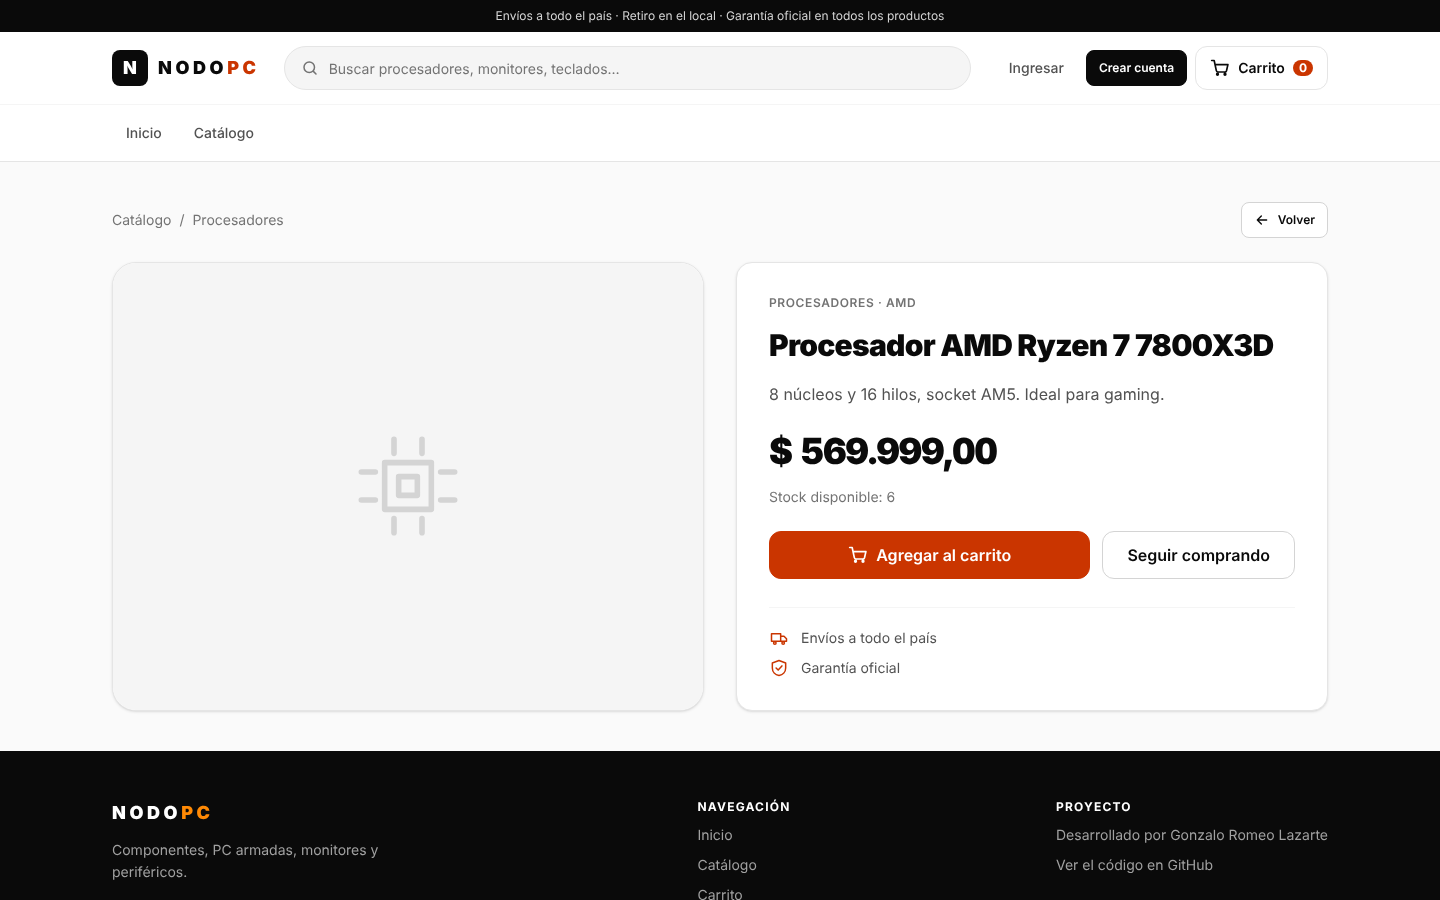
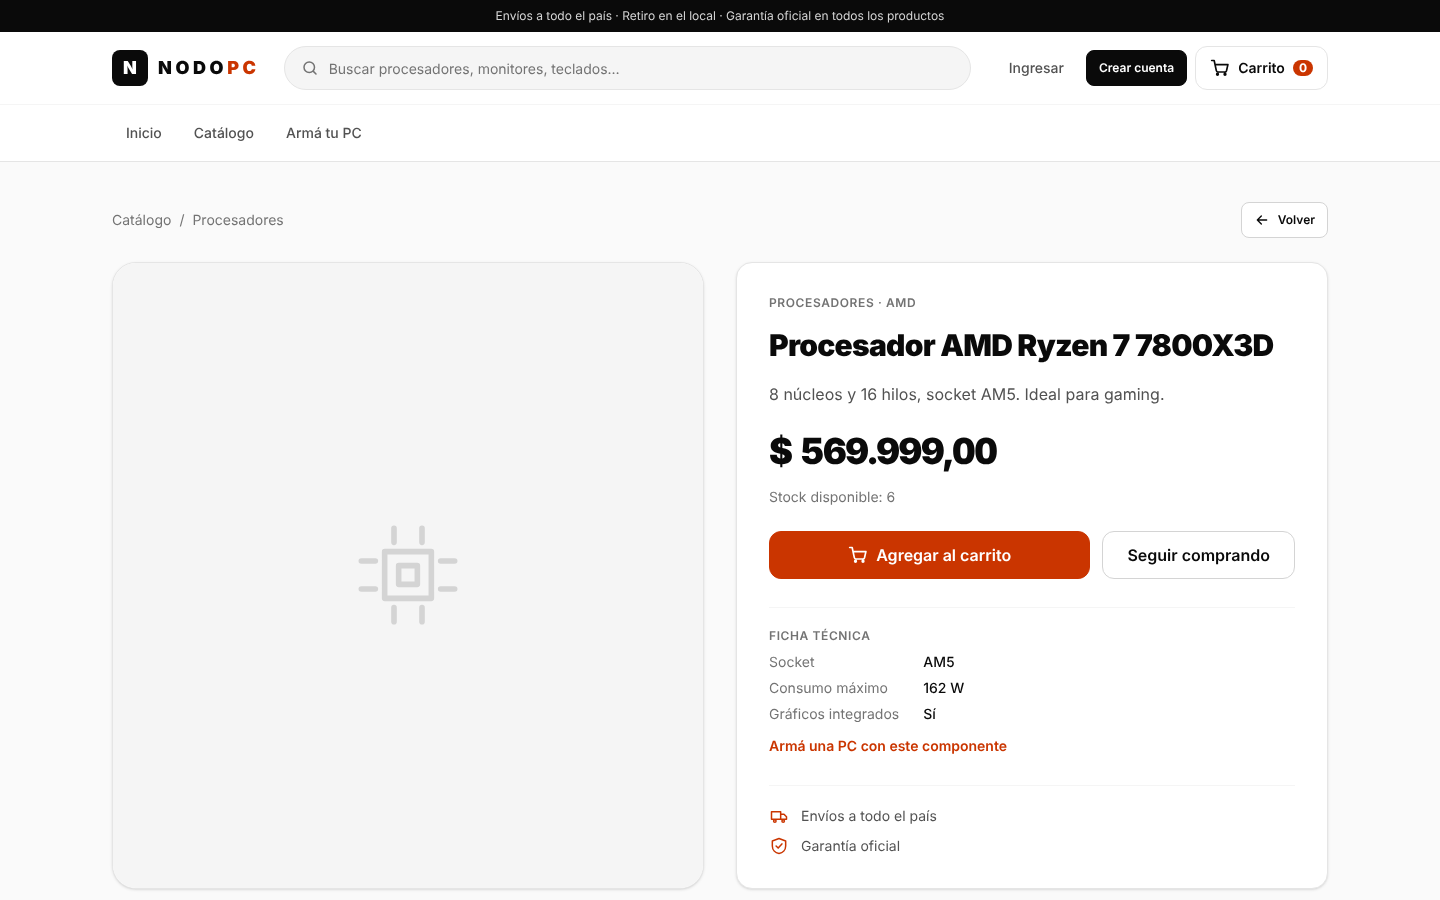
Actualizar las capturas y sumar una demo animada
Las capturas muestran la versión actual: el armador de PC con un aviso
por la fuente, el detalle de un componente con su ficha técnica, el
checkout con envío por provincia y medio de pago, y un pedido pagado
con su seguimiento. El README suma una demo de un minuto que recorre
el armado de una PC compatible, la compra, el pago de prueba y la
gestión del pedido desde el panel.

La presentación del README cuenta las funciones nuevas en una frase.

Changed region(s): [[0.0, 0.6844, 1.0, 1.0], [0.25, 0.4978, 0.3125, 0.6844], [0.1875, 0.1244, 0.25, 0.1556]]

diff --git a/README.md b/README.md
@@ -12,19 +12,25 @@ Tienda online de hardware full stack, hecha con **React, Express y MySQL**.
 ![MySQL](https://img.shields.io/badge/MySQL-4479A1?logo=mysql&logoColor=white)
 ![Licencia MIT](https://img.shields.io/badge/licencia-MIT-c2410c)
 
-NodoPC vende componentes de PC, PC armadas, monitores y periféricos. Los visitantes recorren el catálogo y arman un carrito, los clientes compran y siguen sus pedidos, y el administrador gestiona la tienda desde un panel con métricas de ventas.
+NodoPC vende componentes de PC, PC armadas, monitores y periféricos. Los visitantes recorren el catálogo o arman una PC pieza por pieza con chequeo de compatibilidad; los clientes compran con envío a domicilio o retiro, pagan con Mercado Pago (modo prueba) o con una tarjeta simulada y siguen cada pedido; y el administrador gestiona la tienda desde un panel con métricas de ventas.
 
 > Proyecto de demostración: no se venden productos reales.
 
+## Demo
+
+![Recorrido por la tienda: armado de una PC compatible, compra con envío, pago de prueba y gestión del pedido desde el panel](docs/demo.gif)
+
 ## Capturas
 
-| Inicio                                                     | Catálogo                                             |
-| ---------------------------------------------------------- | ---------------------------------------------------- |
-| ![Inicio](docs/capturas/inicio.png)                        | ![Catálogo con filtros](docs/capturas/catalogo.png)  |
-| **Detalle de producto**                                    | **Carrito**                                          |
-| ![Detalle de producto](docs/capturas/detalle.png)          | ![Carrito](docs/capturas/carrito.png)                |
-| **Gestión de productos**                                   | **Panel del administrador**                          |
-| ![Gestión de productos](docs/capturas/admin-productos.png) | ![Panel con métricas](docs/capturas/panel-admin.png) |
+| Inicio                                                                          | Catálogo                                                            |
+| ------------------------------------------------------------------------------- | ------------------------------------------------------------------- |
+| ![Inicio](docs/capturas/inicio.png)                                             | ![Catálogo con filtros](docs/capturas/catalogo.png)                 |
+| **Armador de PC**                                                               | **Detalle con ficha técnica**                                       |
+| ![Armador de PC con un aviso por la fuente](docs/capturas/armador.png)          | ![Detalle de producto con ficha técnica](docs/capturas/detalle.png) |
+| **Checkout**                                                                    | **Pedido pagado**                                                   |
+| ![Checkout con envío por provincia y medio de pago](docs/capturas/checkout.png) | ![Detalle del pedido con el seguimiento](docs/capturas/pedido.png)  |
+| **Panel del administrador**                                                     | **Gestión de productos**                                            |
+| ![Panel con métricas](docs/capturas/panel-admin.png)                            | ![Gestión de productos](docs/capturas/admin-productos.png)          |
 
 ## Funcionalidades
 
